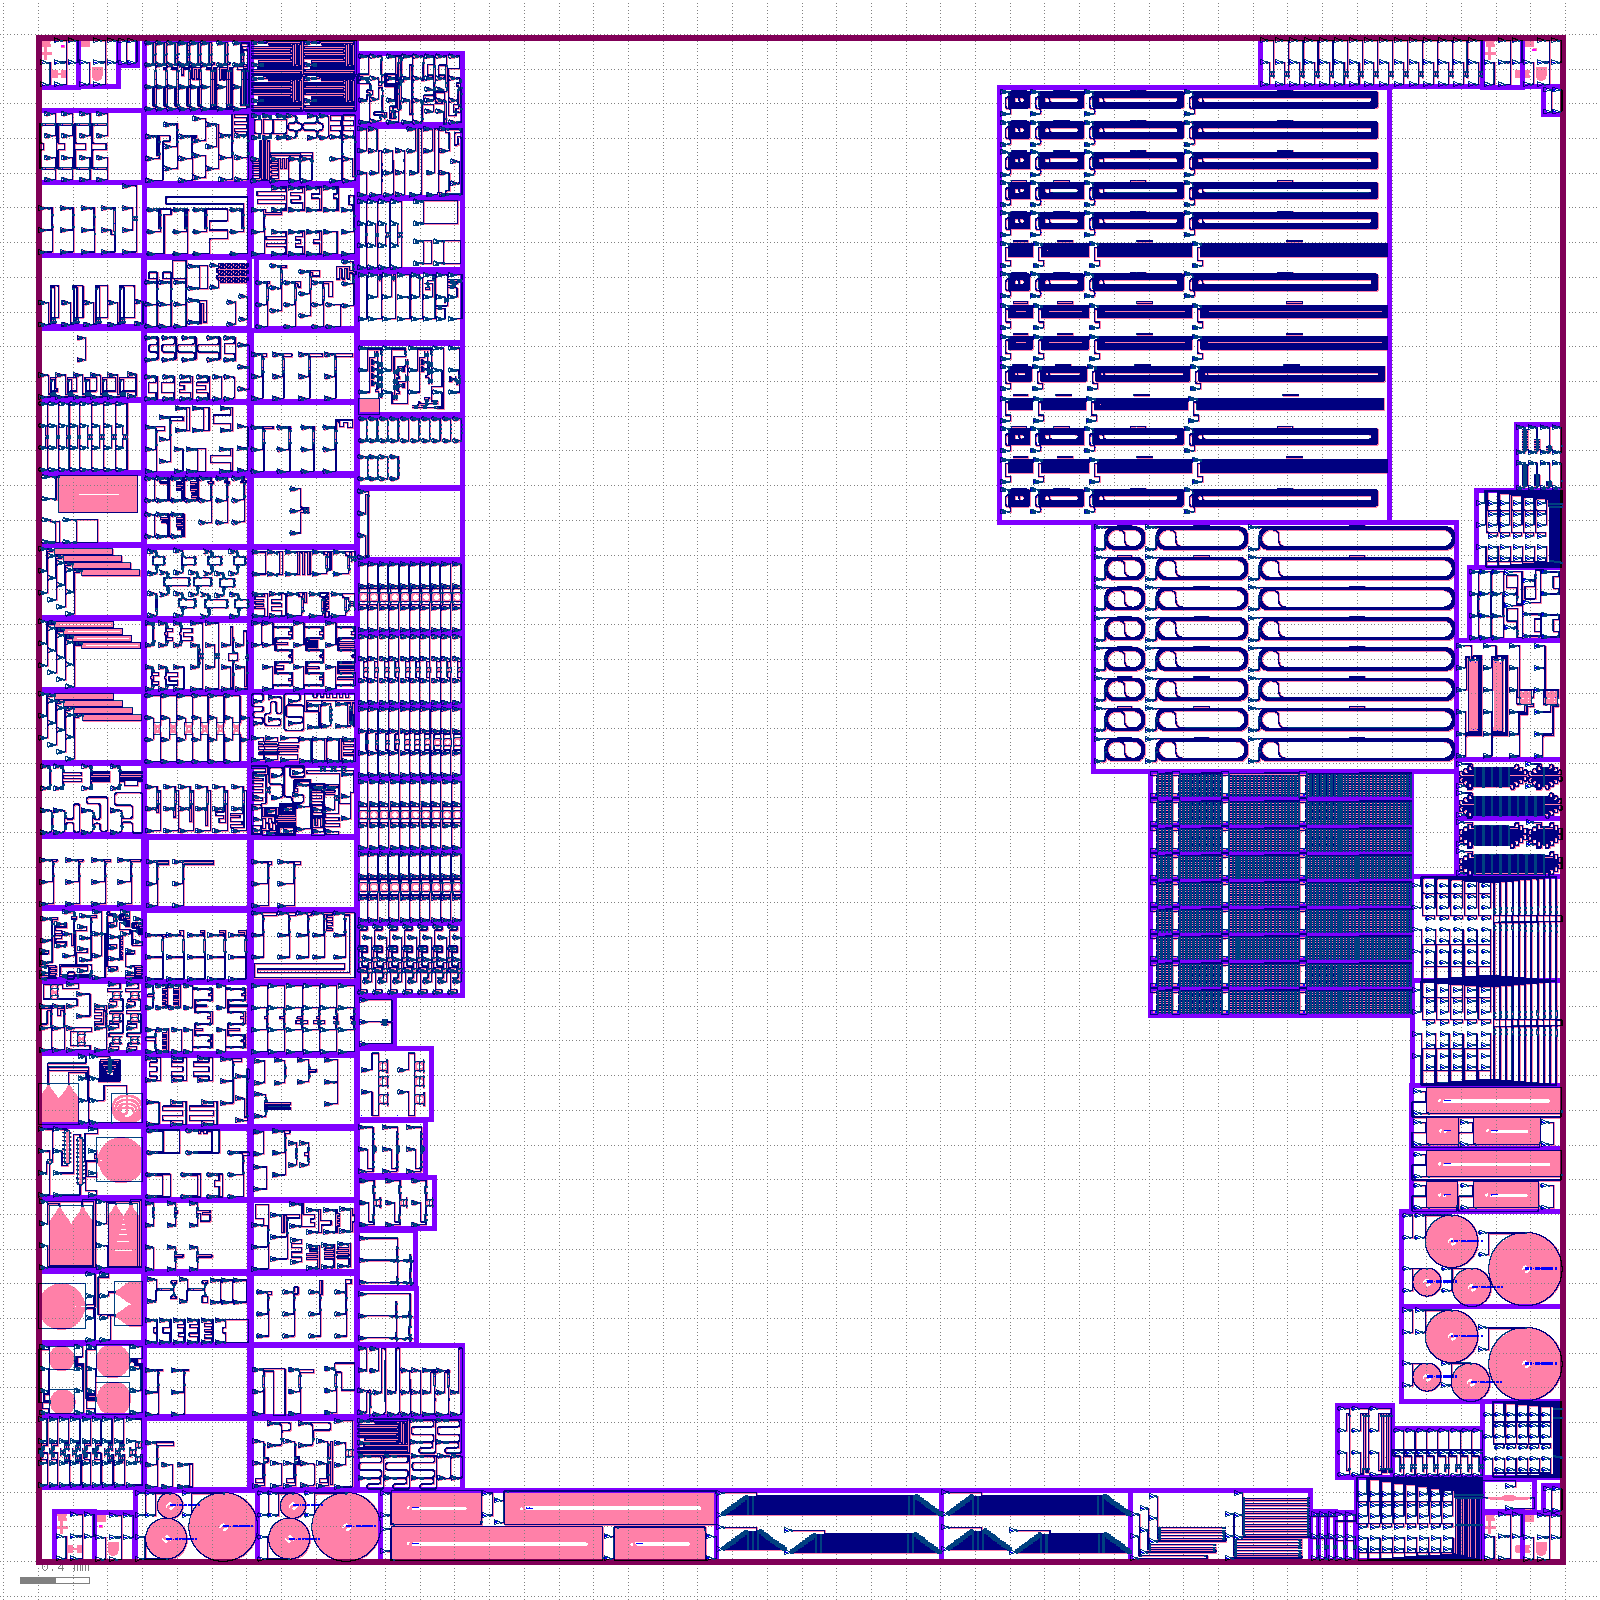
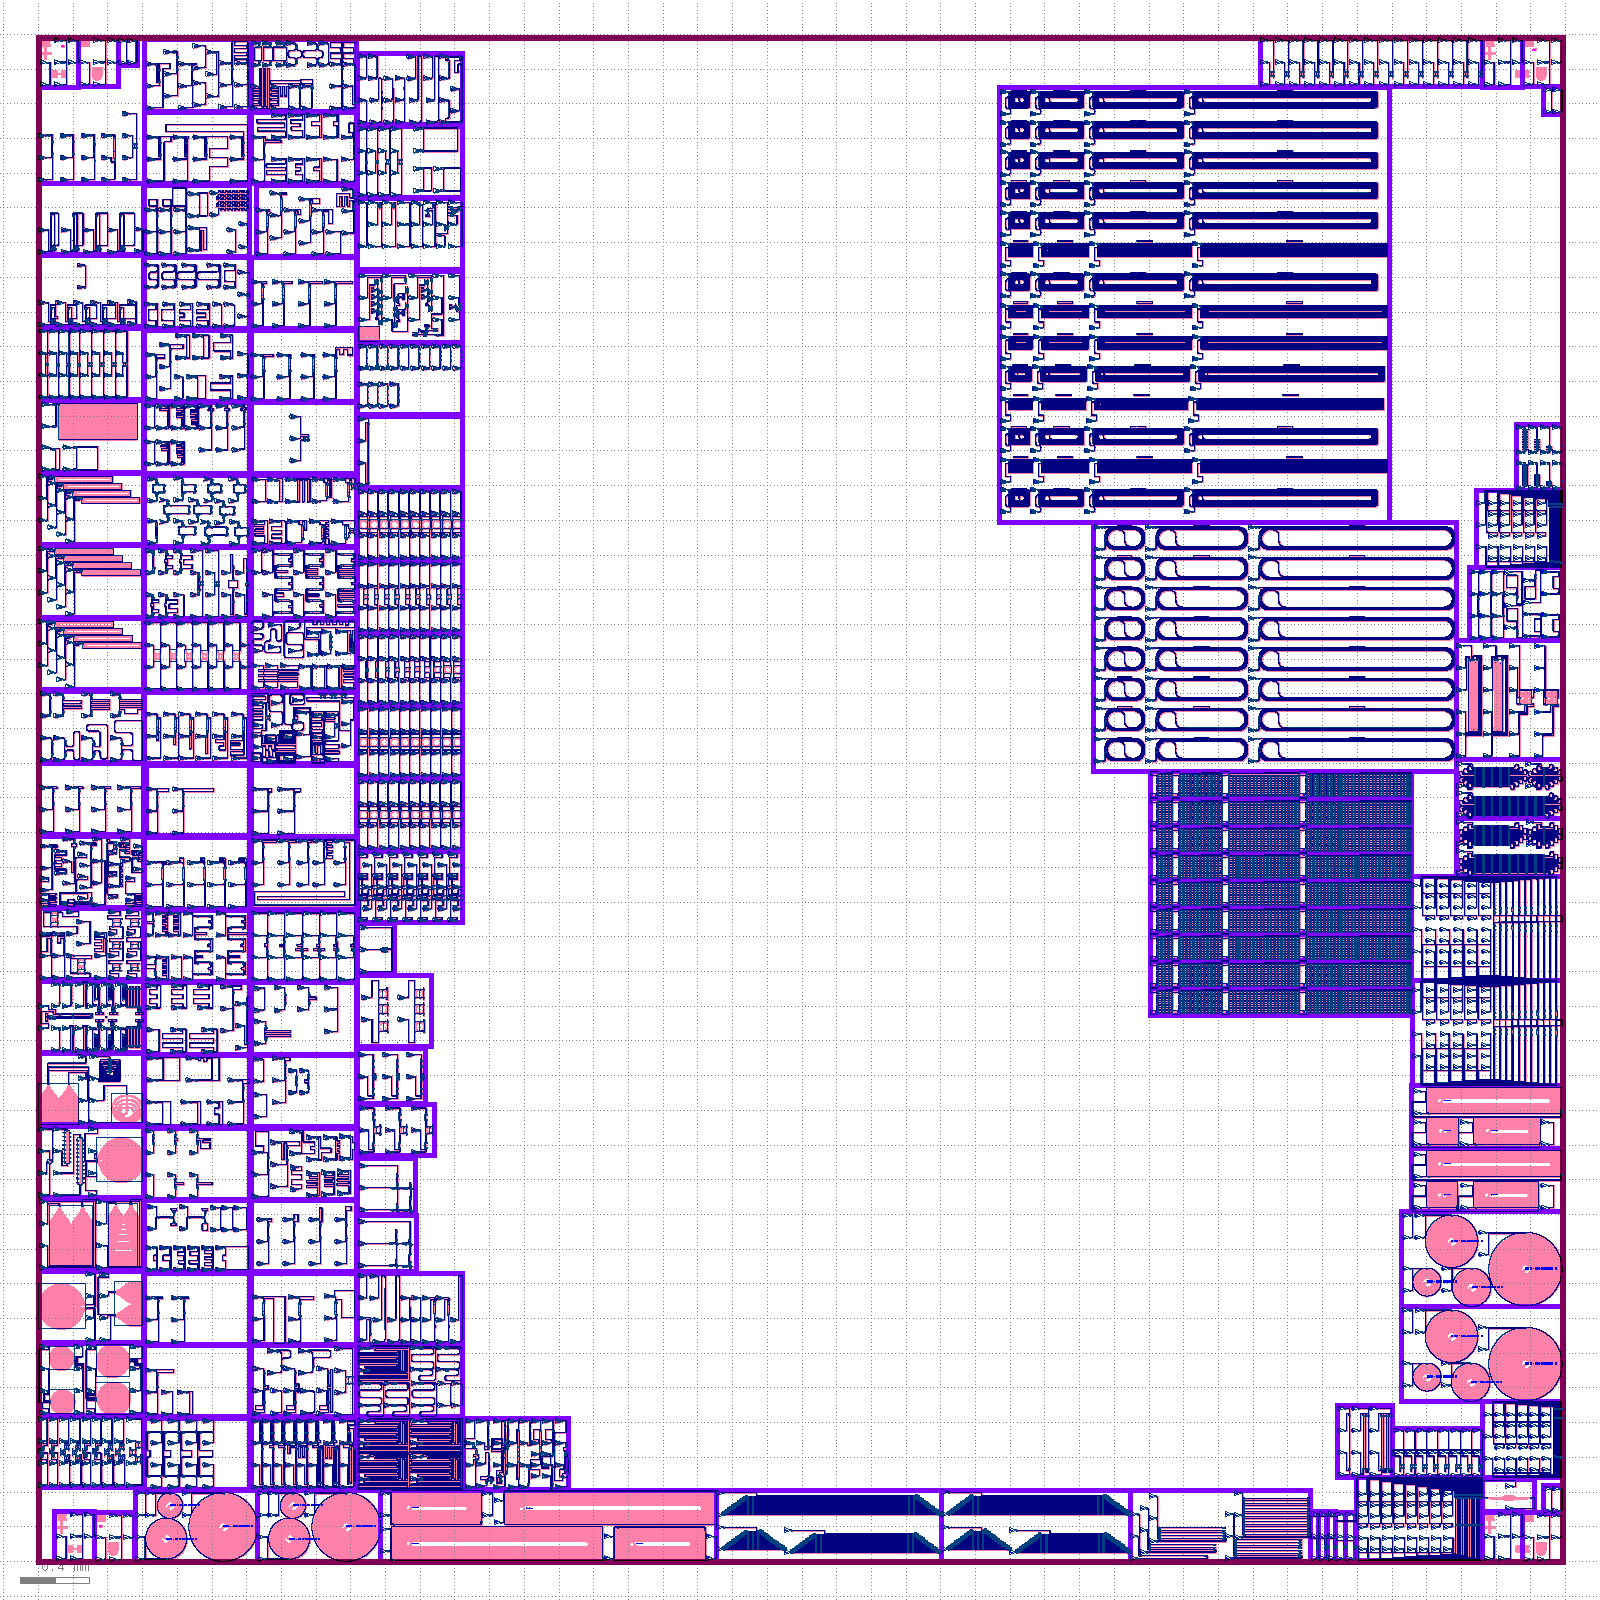
Aggregation layout: https://github.com/SiEPIC/openEBL-2026-05/actions/runs/25913674494/artifacts/7015325972

Changed region(s): [[0.0, 0.0, 0.375, 0.9375]]

diff --git a/README.md b/README.md
@@ -91,5 +91,5 @@ Will be added here.
 
 Click on the following link to download the EBeam.oas merged layout file:
 <!-- start-link -->
-https://github.com/SiEPIC/openEBL-2026-05/actions/runs/25909932838/artifacts/7013783510
+https://github.com/SiEPIC/openEBL-2026-05/actions/runs/25913674494/artifacts/7015325972
 <!-- end-link -->